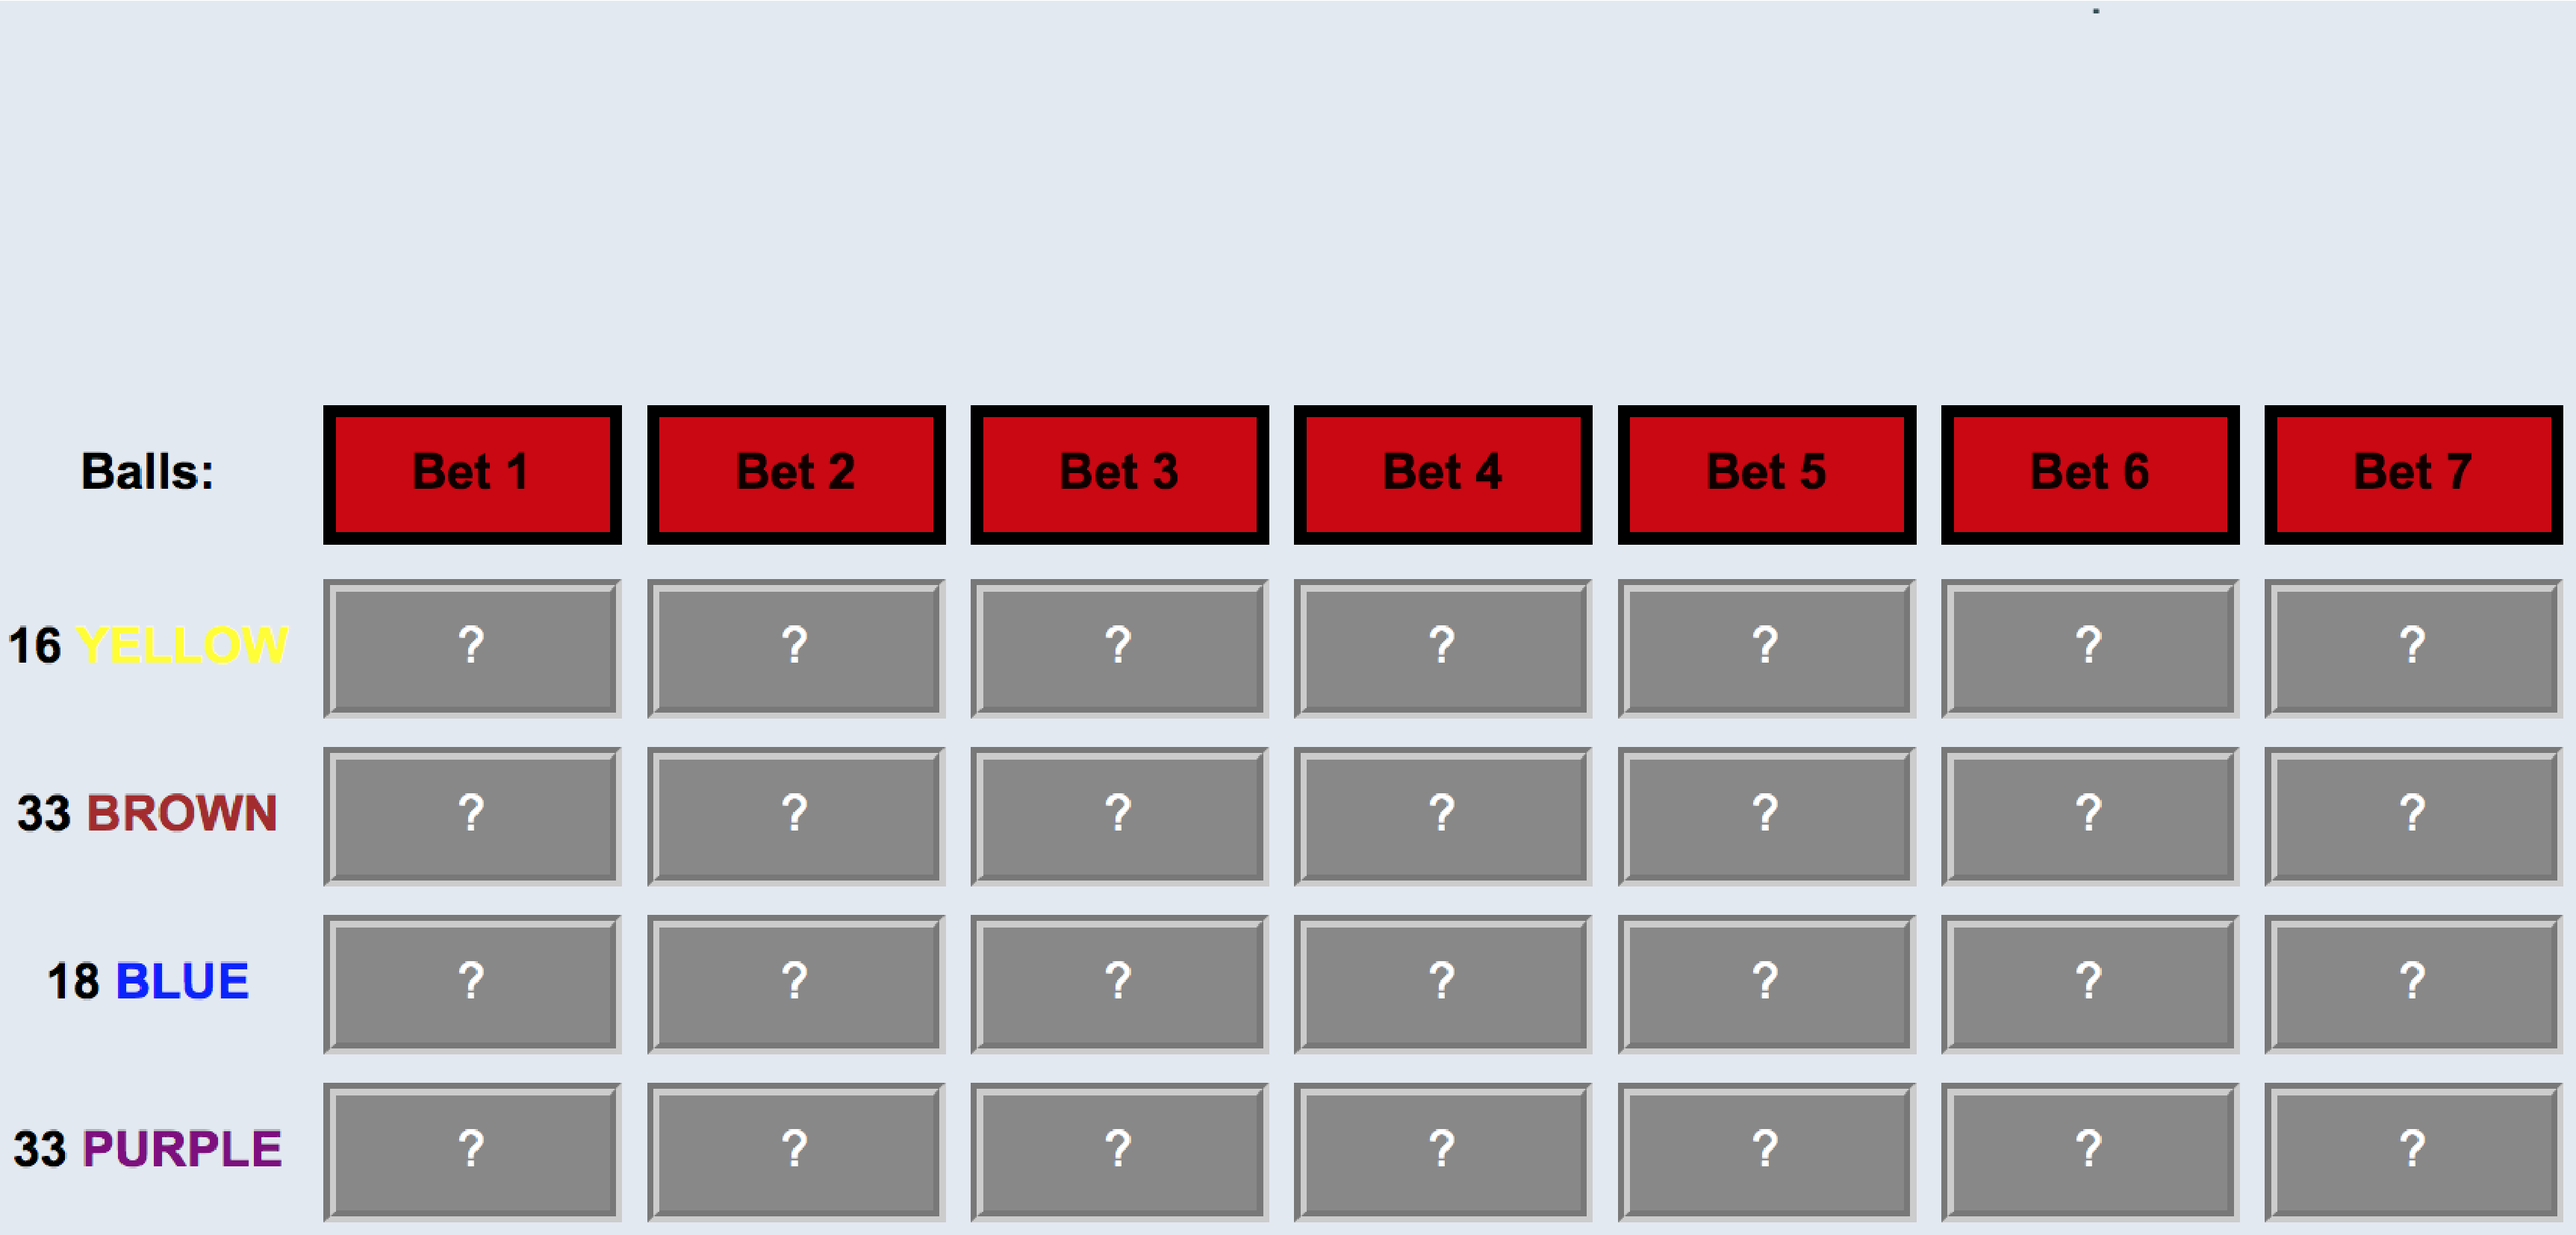
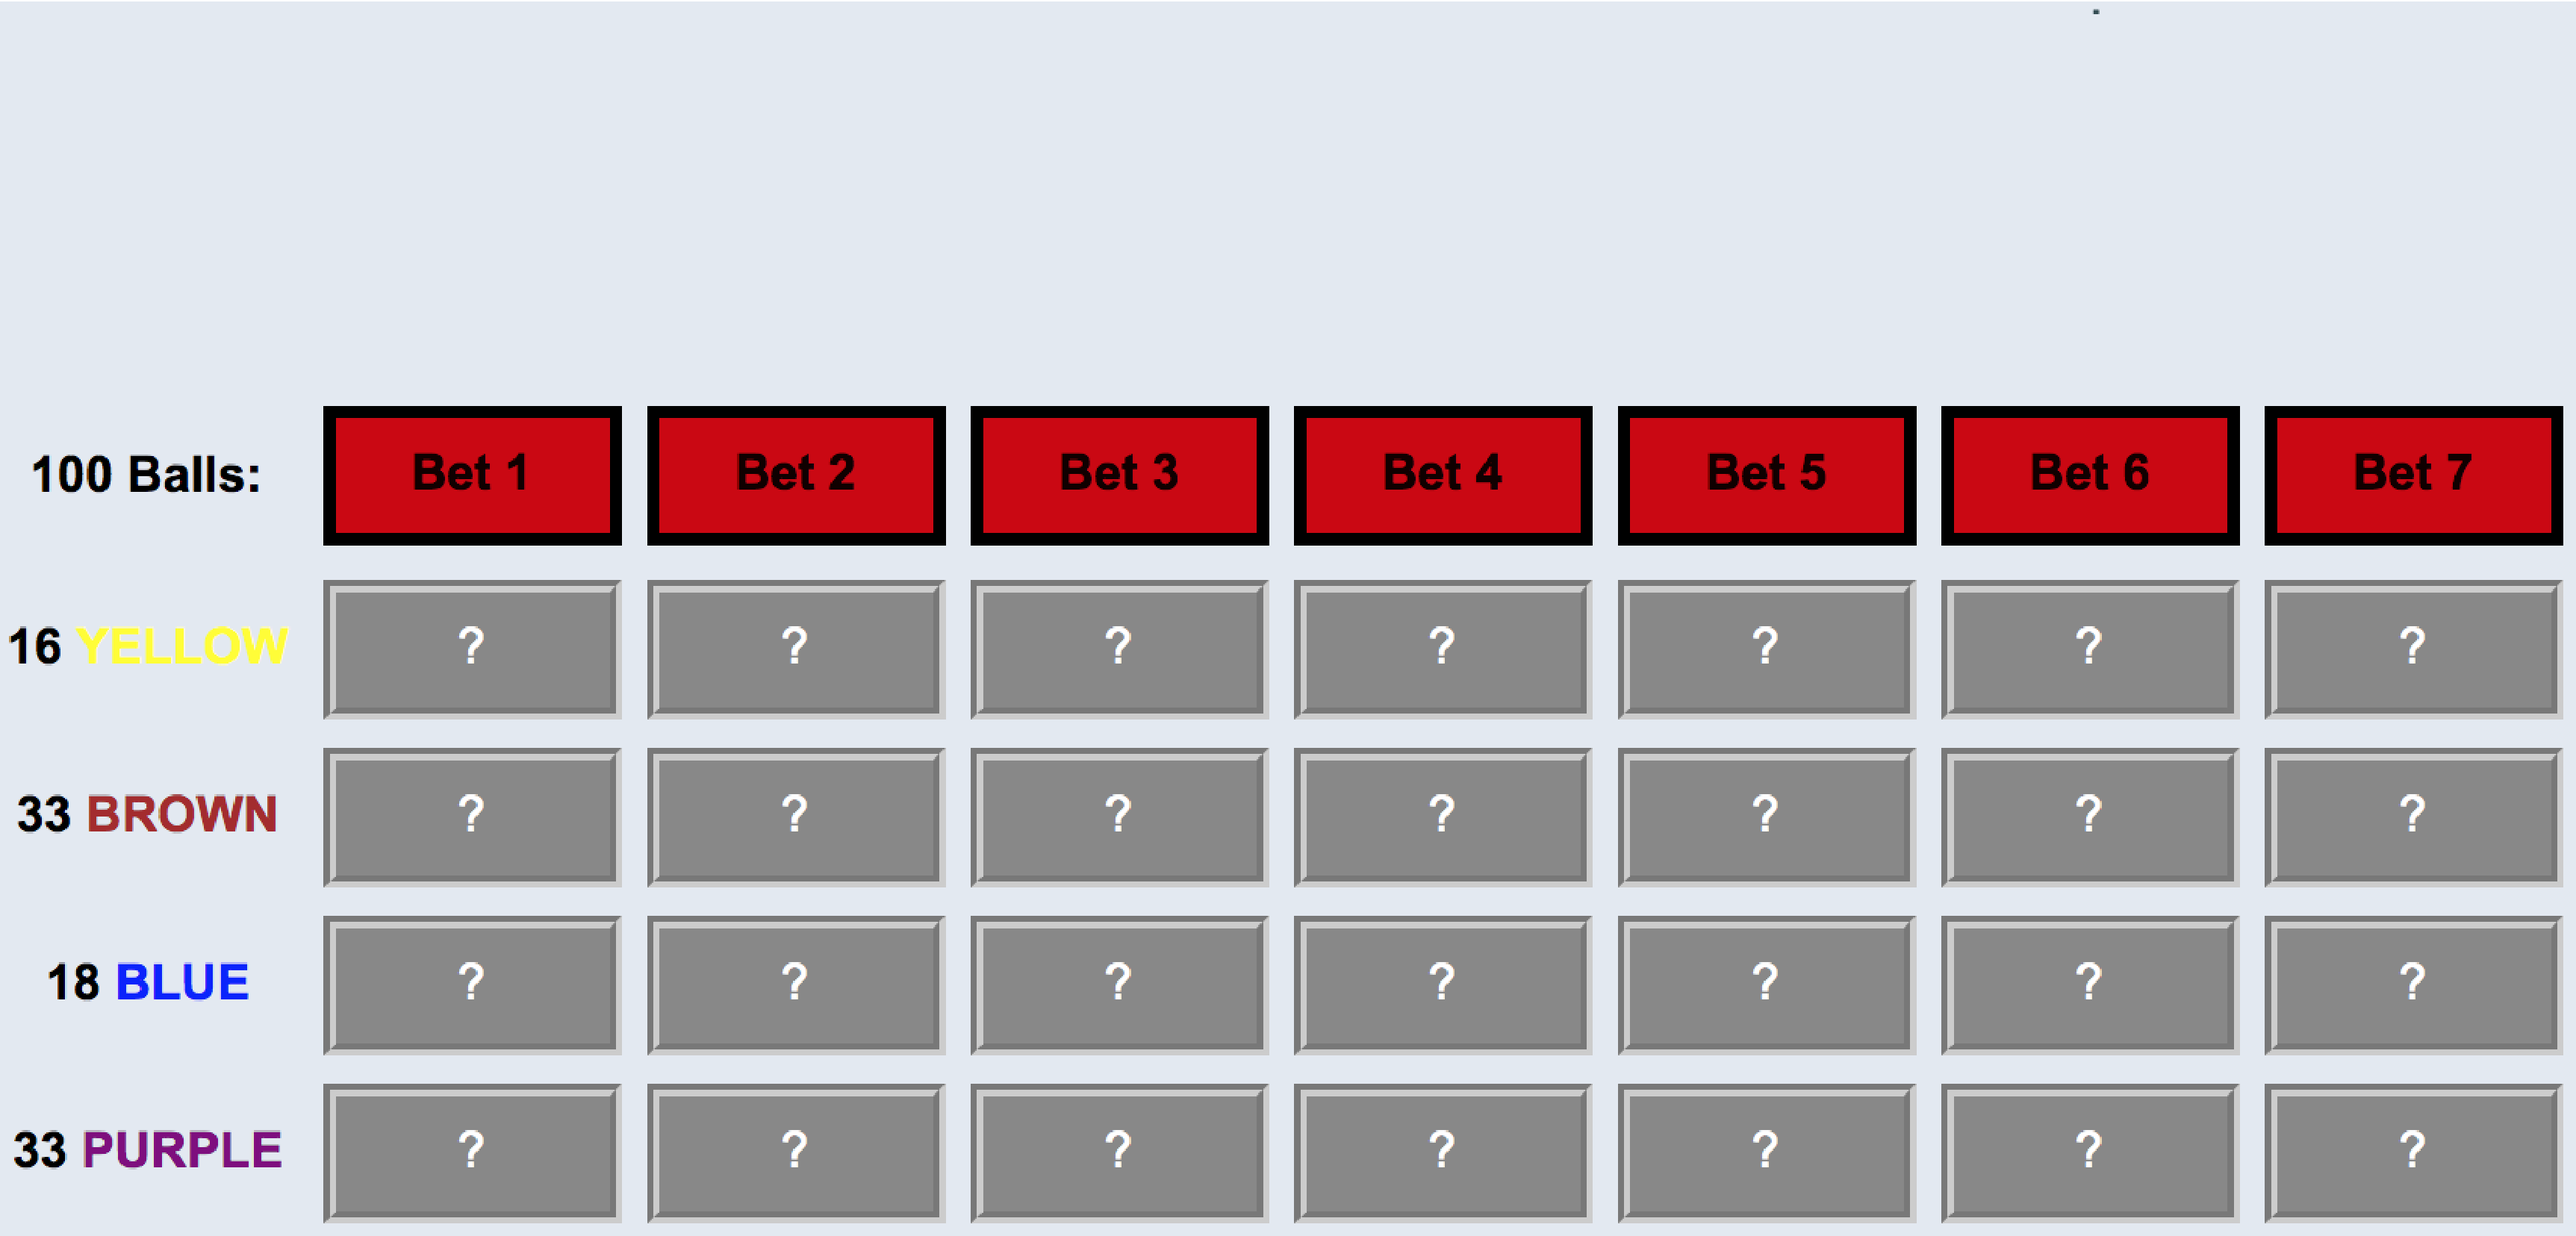
tweaks to instructions for hidden prob condition

Changed region(s): [[0.0, 0.3698, 0.093, 0.4006]]

diff --git a/risky_choice/experiments/mouselab_journalArticle_unrevealedProbabilities/index.html b/risky_choice/experiments/mouselab_journalArticle_unrevealedProbabilities/index.html
@@ -217,7 +217,7 @@ nr_points=0;
 
     <div id="InstructionsDiv1">
 	<p class="block-text">
-        Welcome! In this HIT you will play a series of 20 betting games. In each game, you will choose one of seven bets. After you have placed your bet, a ball will be drawn from a lottery machine with 100 balls. In the example below, the bin contains 16 yellow balls, 33 brown balls, 18 blue balls, and 33 purple balls. Which kind of ball wins you the most money depends on the bet you chose.
+        Welcome! In this HIT you will play a series of 20 betting games. In each game, you will choose one of seven bets. After you have placed your bet, a ball will be drawn from a lottery machine with <b>100 balls</b>. In the example below, the bin contains 16 yellow balls, 33 brown balls, 18 blue balls, and 33 purple balls. Which kind of ball wins you the most money depends on the bet you chose.
     </p>
         
     <div align="center">
@@ -300,7 +300,7 @@ nr_points=0;
         And Bet 6 wins $2.01 if a purple ball is drawn. You may also wish to explore other values. Note that you have paid $0.04 for making four observations.  
     </p>
 	<p class="block-text">
-        <b>You will be required to wait at least 30 seconds before placing a bet (but you can make observations by clicking on grey boxes <i>ANYTIME</i>).</b>
+        <b>If you spend less than 25 seconds making observations, then you will have to wait for the remaining seconds before you can make a bet. For instance, if you spend only 5 seconds collecting information, then you will have to wait 20 seconds.</b>
     </p>
 	<p class="block-text">
         When you have finished revealing grey boxes, you will select a Bet by clicking on a red box. In this pretend example, let's imagine that you select Bet 3. You would do this by clicking on "Bet 3"...
@@ -362,13 +362,13 @@ nr_points=0;
     
 <div id="InstructionsDiv10" style="display:none">
 	<p class="block-text">
-        There are two more important things to understand:
+        An additional two things to understand:
     </p>
 	<p class="block-text">
         <span id='instructions_text'></span>
     </p>
 	<p class="block-text">
-        2. In some games, there will be many more balls of a certain color than of all other colors combined. In the new example below, 89 out of 100 balls are brown. Therefore, a brown ball is much more likely to be drawn than any other ball. That is, for any Bet, 1 thru 7, the most likely outcome will come from the grey box under that bet in the <i>second</i> row.
+        2. <b>In some games, there will be many more balls of a certain color than of all other colors combined.</b> In the new example below, 89 out of 100 balls are brown. Therefore, a brown ball is much more likely to be drawn than any other ball. That is, for any Bet, 1 thru 7, the most likely outcome will come from the grey box under that bet in the <i>second</i> row.
     </p>
         
     <div align="center">
@@ -426,7 +426,7 @@ nr_points=0;
     
  <div id="InstructionsDiv14" style="display:none">
     <p class="block-text">
-        One last important thing. <b>The number of balls of each color will also be hidden</b>, as shown below. If you wish to reveal the number of balls for a given color, you can click it. As before, each observation costs $0.01.
+        One final important thing: <b>The number of balls of each color will also be hidden</b>, as shown below. If you wish to reveal the number of balls for a given color, you can click it. As before, each observation costs $0.01.
     </p>
 
 <div align="center">
@@ -437,15 +437,85 @@ nr_points=0;
         <button onclick="$('#InstructionsDiv14').hide();$('#InstructionsDiv15').show();">Next</button>        
     </div>
 </div>
+    
+ <div id="InstructionsDiv14" style="display:none">
+    <p class="block-text">
+        One final important thing: <b>The number of balls of each color will also be hidden</b>, as shown below. If you wish to reveal the number of balls for a given color, you can click it. As before, each observation costs $0.01.
+    </p>
+
+<div align="center">
+    <img src="images/unrevealedProbabilities.png" width="600">        
+</div>
+    <div align="center">
+        <button onclick="$('#InstructionsDiv14').hide(); $('#InstructionsDiv13').show();">Previous</button> 
+        <button onclick="$('#InstructionsDiv14').hide();$('#InstructionsDiv15').show();">Next</button>        
+    </div>
+</div>
+    
+ <div id="InstructionsDiv15" style="display:none">
+    <p class="block-text">
+        For example, clicking the first box reveals that 28 out of 100 balls are yellow.
+    </p>
+
+<div align="center">
+    <img src="images/hiddenProbabilities_equal_reveal1.png" width="600">        
+</div>
+    <div align="center">
+        <button onclick="$('#InstructionsDiv15').hide(); $('#InstructionsDiv14').show();">Previous</button> 
+        <button onclick="$('#InstructionsDiv15').hide();$('#InstructionsDiv16').show();">Next</button>        
+    </div>
+</div>
+    
+ <div id="InstructionsDiv16" style="display:none">
+    <p class="block-text">
+        Clicking all four boxes would reveal this. In this game, there are roughly equal numbers of all balls.
+    </p>
+
+<div align="center">
+    <img src="images/hiddenProbabilities_equal_reveal4.png" width="600">        
+</div>
+    <div align="center">
+        <button onclick="$('#InstructionsDiv16').hide(); $('#InstructionsDiv15').show();">Previous</button> 
+        <button onclick="$('#InstructionsDiv16').hide();$('#InstructionsDiv17').show();">Next</button>        
+    </div>
+</div>
+    
+ <div id="InstructionsDiv17" style="display:none">
+    <p class="block-text">
+        In this game, clicking the third box reveals that 86 out of 100 balls are blue. There are many more blue balls than all other balls combined.
+    </p>
+
+<div align="center">
+    <img src="images/hiddenProbabilities_unequal_reveal1.png" width="600">        
+</div>
+    <div align="center">
+        <button onclick="$('#InstructionsDiv17').hide(); $('#InstructionsDiv16').show();">Previous</button> 
+        <button onclick="$('#InstructionsDiv17').hide();$('#InstructionsDiv18').show();">Next</button>        
+    </div>
+</div>
+    
+ <div id="InstructionsDiv18" style="display:none">
+    <p class="block-text">
+        Indeed, with all four probabilities revealed, we can see that a blue ball is the most likely outcome.
+    </p>
+
+<div align="center">
+    <img src="images/hiddenProbabilities_unequal_reveal4.png" width="600">        
+</div>
+    <div align="center">
+        <button onclick="$('#InstructionsDiv18').hide(); $('#InstructionsDiv17').show();">Previous</button> 
+        <button onclick="$('#InstructionsDiv18').hide();$('#InstructionsDiv19').show();">Next</button>        
+    </div>
+</div>
          
-    <div id="InstructionsDiv15" style="display:none">
+    <div id="InstructionsDiv19" style="display:none">
         <p class="block-text">
             You may either review the instructions, or take an entry quiz.
         </p>         
          
         <div align="center">
-            <button onclick="$('#InstructionsDiv15').hide(); $('#InstructionsDiv1').show();">Re-read instructions</button> 
-            <button type="button" id="start" onclick="$('#InstructionsDiv15').hide();$('#Instructions').hide();$('#quiz').show();">Take quiz</button>  
+            <button onclick="$('#InstructionsDiv19').hide(); $('#InstructionsDiv1').show();">Re-read instructions</button> 
+            <button type="button" id="start" onclick="$('#InstructionsDiv19').hide();$('#Instructions').hide();$('#quiz').show();">Take quiz</button>  
         </div>
      </div>
 </div>
@@ -466,7 +536,7 @@ nr_points=0;
     </div>
     
     <div id='question2' style='display:none' class='block-text'>
-        True or false: <p>The number of balls of each color tells me which color is most likely to be drawn from the bin.</p>
+        True or false: <p>The number of balls of each color tells me which color is most likely to be drawn from the bin. These numbers are hidden, but I can click to observe them (costing $0.01 per observation).</p>
         <table cellpadding='8'>
             <tr>
                 <td> True <input type="radio" name="Quiz2" id='Q2A1' value="1"> </td>
@@ -502,7 +572,7 @@ nr_points=0;
     </div>
     
     <div id='question5' style='display:none' class='block-text'>
-        True or false: <p>In "high-stakes" games, the range of possible values behind the grey boxes is $0.01 to $9.99.</p>
+        True or false: <p>In "high-stakes" games, the range of possible values behind the grey boxes is $0.01 to $9.99; In "low-stakes" games, the range is $0.01 to $0.25</p>
         <table cellpadding='8'>
             <tr>
                 <td> True <input type="radio" name="Quiz5" id='Q5A1' value="1"> </td>
@@ -521,30 +591,6 @@ nr_points=0;
             </tr>
             <tr>
                 <td> False <input type="radio" name="Quiz6" id='Q6A2' value="0"> </td>
-            </tr>                  
-        </table>
-    </div>
-    
-    <div id='question7' style='display:none' class='block-text'>
-        True or false: <p>In "low-stakes" games, the highest possible reward is $0.25</p>
-        <table cellpadding='8'>
-            <tr>
-                <td> True <input type="radio" name="Quiz7" id='Q7A1' value="1"> </td>
-            </tr>
-            <tr>
-                <td> False <input type="radio" name="Quiz7" id='Q7A2' value="0"> </td>
-            </tr>                  
-        </table>
-    </div>
-    
-    <div id='question8' style='display:none' class='block-text'>
-        True or false: <p>I can make obsservations ANYTIME during each game, but I must wait at least 30 seconds before betting.</p>
-        <table cellpadding='8'>
-            <tr>
-                <td> True <input type="radio" name="Quiz8" id='Q8A1' value="1"> </td>
-            </tr>
-            <tr>
-                <td> False <input type="radio" name="Quiz8" id='Q8A2' value="0"> </td>
             </tr>                  
         </table>
     </div>
@@ -573,7 +619,7 @@ nr_points=0;
 
     <div id="InstructionsDiv_isFullyRevealed1">
 	<p class="block-text">
-        Welcome! In this HIT you will play a series of 20 betting games. In each game, you will choose one of seven bets. After you have placed your bet, a ball will be drawn from a lottery machine with 100 balls. In the example below, the bin contains 16 yellow balls, 33 brown balls, 18 blue balls, and 33 purple balls. Which kind of ball wins you the most money depends on the bet you chose.
+        Welcome! In this HIT you will play a series of 20 betting games. In each game, you will choose one of seven bets. After you have placed your bet, a ball will be drawn from a lottery machine with <b>100 balls</b>. In the example below, the bin contains 16 yellow balls, 33 brown balls, 18 blue balls, and 33 purple balls. Which kind of ball wins you the most money depends on the bet you chose.
     </p>
         
     <div align="center">
@@ -705,13 +751,13 @@ nr_points=0;
     
 <div id="InstructionsDiv_isFullyRevealed10" style="display:none">
 	<p class="block-text">
-        There are two more important things to understand:
+        An additional two things to understand:
     </p>
 	<p class="block-text">
         <span id='instructions_text2'></span>
     </p>
 	<p class="block-text">
-        2. In some games, there will be many more balls of a certain color than of all other colors combined. In the new example below, 89 out of 100 balls are brown. Therefore, a brown ball is much more likely to be drawn than any other ball. That is, for any Bet, 1 thru 7, the most likely outcome will come from the box under that bet in the <i>second</i> row.
+        2. <b>In some games, there will be many more balls of a certain color than of all other colors combined.</b> In the new example below, 89 out of 100 balls are brown. Therefore, a brown ball is much more likely to be drawn than any other ball. That is, for any Bet, 1 thru 7, the most likely outcome will come from the box under that bet in the <i>second</i> row.
     </p>
         
     <div align="center">

diff --git a/risky_choice/experiments/mouselab_journalArticle_unrevealedProbabilities/js/MouseLabExperiments.js b/risky_choice/experiments/mouselab_journalArticle_unrevealedProbabilities/js/MouseLabExperiments.js
@@ -24,10 +24,10 @@ var range_nr_gambles = [7, 7];
 var isHighCompensatory = new Array();
 isHighCompensatory[0] = shuffle([1,1,1,1,1,0,0,0,0,0]);
 isHighCompensatory[1] = shuffle([1,1,1,1,1,0,0,0,0,0]);
-var nr_trials = 20;
+var nr_trials = 4;
 var question_nr=1;
-var nr_questions=8;
-correct_answers = [1,1,0,1,1,0,1,1];
+var nr_questions=6;
+correct_answers = [1,1,0,1,1,0];
 var failed_quiz = new Array();
 var seconds_left = 0;
 var trialTime = new Array;
@@ -39,10 +39,11 @@ for (o=0;o<nr_trials;o++){
     RTs[o]=fillArray(-1,nr_outcomes*nr_gambles);
 }
 var isFullyRevealed = 0;//Math.round(Math.random());
+var isHiddenProbability = 1;//Math.round(Math.random());
 var tmp_2 = 1;
 if (isFullyRevealed==1){
     var nr_questions=6;
-    correct_answers = [1,0,1,1,0,1];
+    correct_answers = [1,1,0,1,1,0];
     condStr = '_isFullyRevealed';
 }
 else{
@@ -192,12 +193,12 @@ function start_trial2(trial_nr){
         seconds_left = 0;
     }
     else{
-        seconds_left = 30;//30;
+        seconds_left = 25;//30;
     }
     var interval = setInterval(function() {
         //document.getElementById('timer_div').innerHTML = --seconds_left;
         seconds_left--
-        $("#Timer").html(["You must wait at least <b>"+seconds_left+"</b> seconds before betting"]);
+        $("#Timer").html(["You can Bet in <b>"+seconds_left+"</b> seconds"]);
 
         if (seconds_left <= 0)
         {
@@ -298,7 +299,7 @@ function choice_buttons_row(nr_choices){
     buttons_row_html="<TR>";
     
     //The first button says "No thanks!"
-    buttons_row_html+=mouselab_cell("a0","Balls:","Balls",false);
+    buttons_row_html+=mouselab_cell("a0","100 Balls:","Balls",false);
 
     for (c=0; c<nr_choices; c++){
         
@@ -692,7 +693,8 @@ function saveAnswers(){
         payoff_std2: payoff_std2,
         isHighCompensatory: isHighCompensatory,
         failed_quiz: failed_quiz,
-        isFullyRevealed: isFullyRevealed
+        isFullyRevealed: isFullyRevealed,
+        isHiddenProbability: isHiddenProbability
     }
     
     data={           
